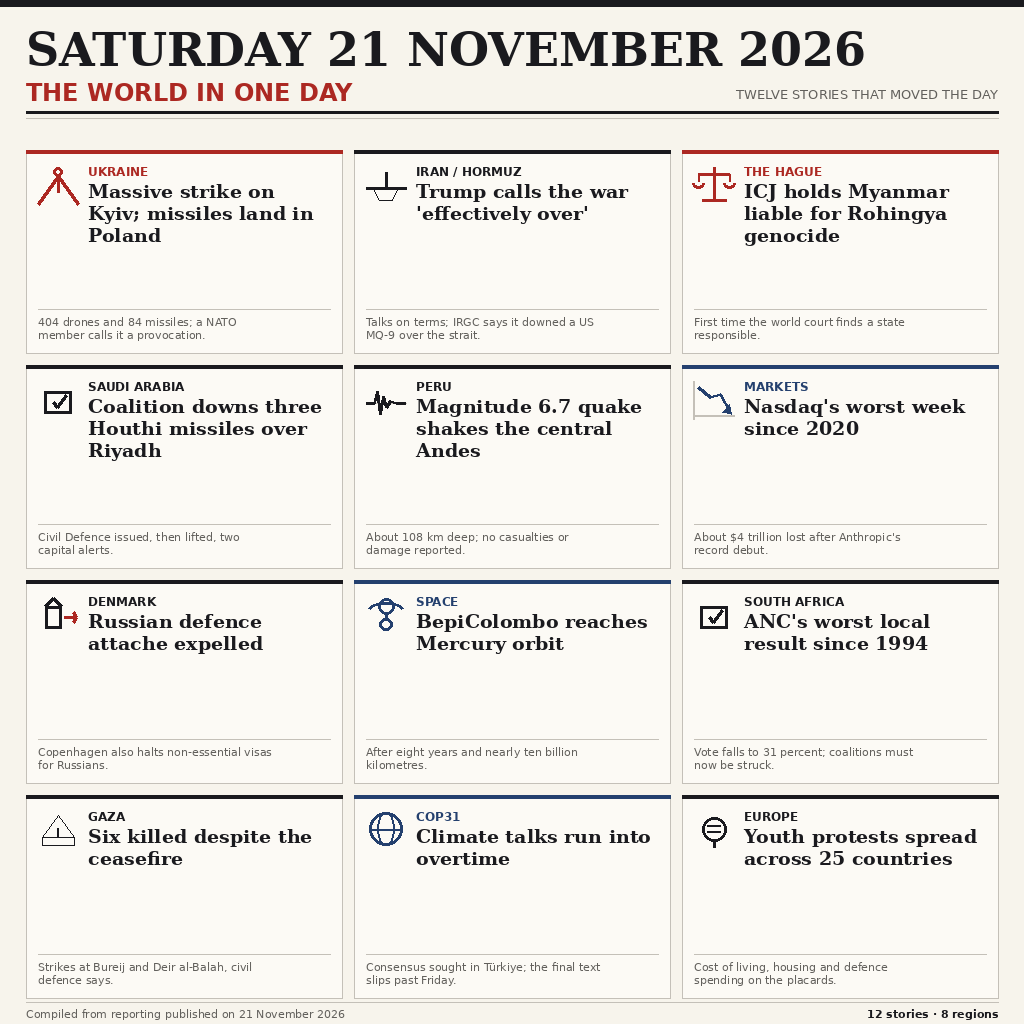
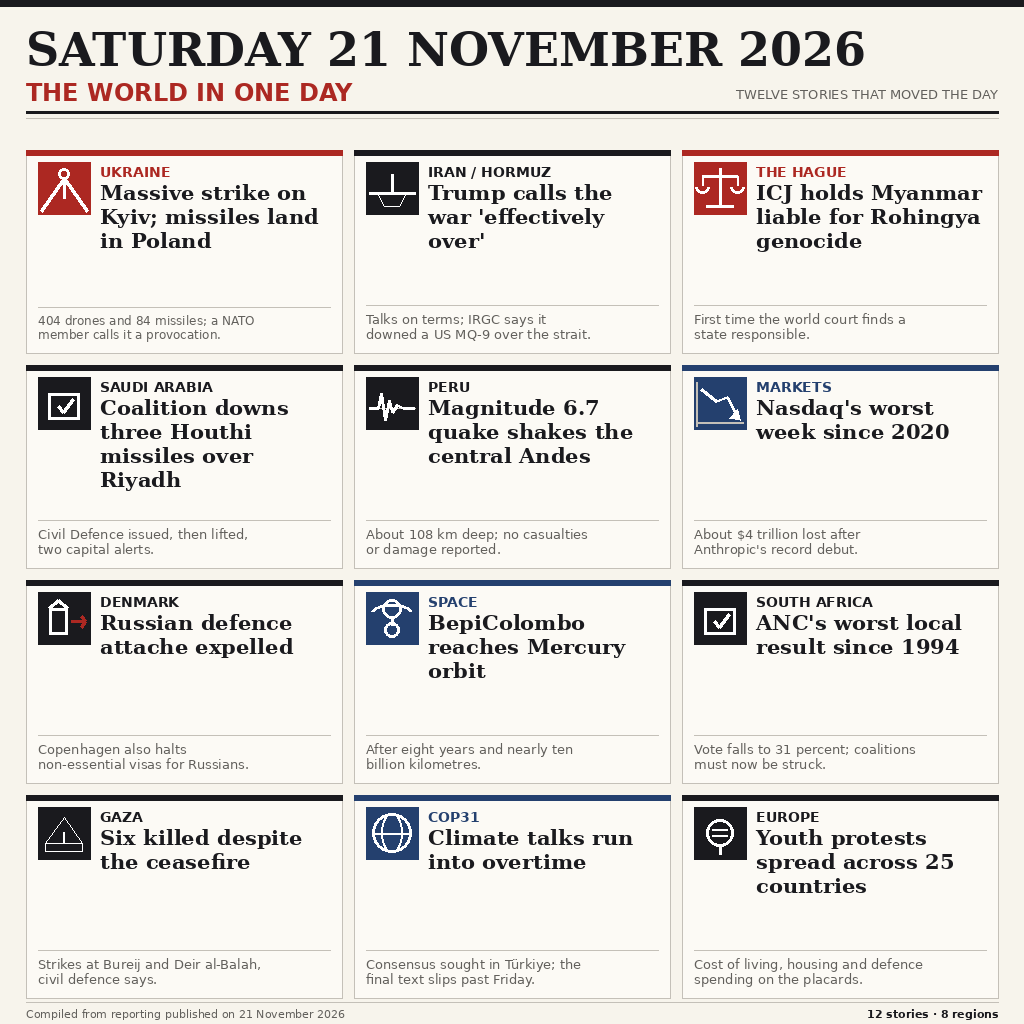
feat: v2 front page, solid pictogram panels and larger type

diff --git a/main.ts b/main.ts
@@ -17,5 +17,16 @@ const isJpeg = head[0] === 0xff && head[1] === 0xd8;
 if (!isPng && !isJpeg) throw new Error('entry.png is neither a PNG nor a JPEG');
 if (bytes > 1048576) throw new Error(`entry.png is ${bytes} bytes, over the 1 MiB cap`);
 
+// The gate also caps the pixel size at 1024x1024: read it straight out of the
+// PNG's IHDR chunk rather than trusting the file we drew.
+if (isPng) {
+  const buf = readFileSync(SRC);
+  const width = buf.readUInt32BE(16);
+  const height = buf.readUInt32BE(20);
+  if (width > 1024 || height > 1024) {
+    throw new Error(`entry.png is ${width}x${height}, over the 1024x1024 cap`);
+  }
+}
+
 mkdirSync(OUTPUT_DIR, { recursive: true });
 copyFileSync(SRC, join(OUTPUT_DIR, 'entry.png'));
